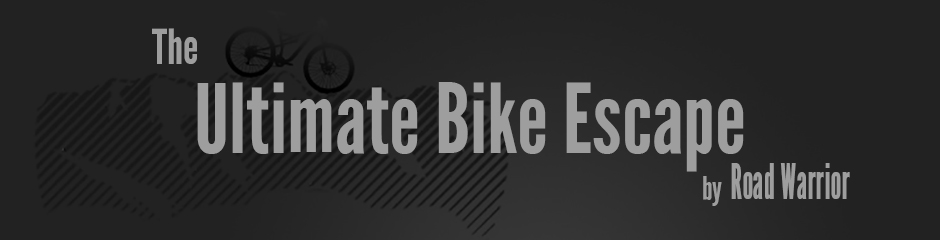
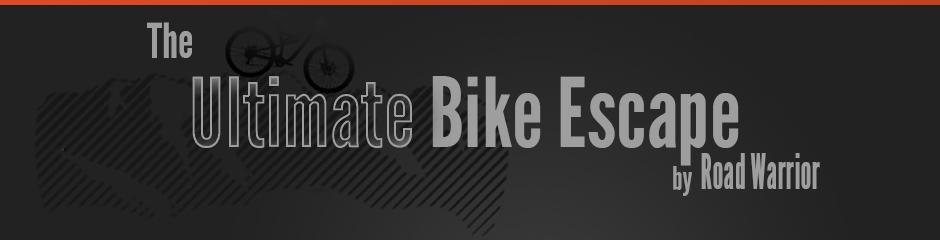
change layout and design

Changed region(s): [[0.1851, 0.3208, 0.9255, 0.8458], [0.0, 0.0, 1.0, 0.0292], [0.1543, 0.0875, 0.216, 0.2625]]

diff --git a/index.html b/index.html
@@ -14,7 +14,7 @@
   <link href="css/bootstrap.min.css" rel="stylesheet">
 	<link rel="stylesheet" href="css/bootstrap-theme.min.css">
     <!-- Custom styles for this template -->
-    <link href="css/my-styles.css" rel="stylesheet">
+    <link href="scss/my-styles.css" rel="stylesheet">
 
     
     <!-- HTML5 shim and Respond.js for IE8 support of HTML5 elements and media queries -->
@@ -55,65 +55,29 @@
         
       </div>
     </nav>
+
+
   
 	<header class="background">
     
-    
+
     
     
    
     
-    
+  
     
     </header>
+
+    <img src="images/background.jpg" class="img-responsive center" alt="Banner Image">
     <div class="container">
     	<div class="jumbotron">
 			<div class="container">
         <h1>Welcome To Our Bike Shop</h1>
         <p class"lead">Lucas Ipsum Secura mygeeto dressellian jin'ha lahara utapau. Evazan allie chadra-fan klatooinian dormé fel. Gonk gora mandalore nassau twi'lek drach'nam ralter.</p>
-        
-<article>
-    
-    <div class="container">
-  <br>
-    
-</article>
-	<div>
-<h2>Join The Adventure</h2>
-        
-        <p>Evazan allie chadra-fan klatooinian dormé fel. Gonk gora mandalore nassau twi'lek drach'nam.  Drovian shmi oola darth kal grodin jerjerrod dengar. Roonan ishi lars lars panaka derlin.
-        </p>
-        <p>
-        <a class="btn btn-primary btn-lg pull-right" href="#" role="button">Learn more &raquo;</a></p>
-      		</div>
     	</div>
 
-    </div><!-- /.container -->
-        <div class="container">
-      <!-- Example row of columns -->
-      		<div class="row">
-            	<div class="col-md-4">
-          <h2>Equipment</h2>
-          <p>Lucas ipsum dolor sit amet stereb sesswenna veknoid latter fisto trioculus darth latter sly rishi. Drovian shmi oola darth kal grodin jerjerrod dengar. Roonan ishi lars lars panaka derlin. Katarn rancisis bormea calamari tund r2-d2 airen kessel fisto. </p>
-          <p><a class="btn btn-default" href="#" role="button">View details &raquo;</a></p>
-          		</div><!-- /.col-md-4 -->
-                
-            	<div class="col-md-4">
-          <h2>Drive</h2>
-          <p>Wookiee toydarian ansion cracken bespin t'landa aramandi squib tyber calrissian. Axmis carondian elrood jax ewok gonk davin x1 dash. Yarael x1 muunilinst fisto meridian kal mace. Kamino saleucami wilhuff yané lando subterrel.</p>
-          <p><a class="btn btn-default" href="#" role="button">View details &raquo;</a></p>
-          		</div><!-- /.col-md-4 -->
-                
-            	<div class="col-md-4">
-          <h2>Destination</h2>
-          <p>Biggs bibble padmé mustafarian ansuroer ssi-ruuk ikrit k-3po. Whiphid moff nar qel-droma gallia vong. Snootles kasan grand sidious salacious seerdon palpatine hutt habassa.</p>
-          <p><a class="btn btn-default" href="#" role="button">View details &raquo;</a></p>
-          		</div><!-- /.col-md-4 -->
-                
-            </div><!-- /.row -->
-            
-            
-            
+      </div><!-- /.container -->
 
       <hr>
       
@@ -141,7 +105,34 @@
             </a>
         </div>
     </div>
-</div>
+      </div> <!-- close container for thumbs -->
+
+
+
+
+
+
+        <div class="container">
+      <!-- Example row of two columns -->
+      		<div class="row">
+              	<div class="col-md-6">
+            <h2>Equipment</h2>
+            <p>Lucas ipsum dolor sit amet stereb sesswenna veknoid latter fisto trioculus darth latter sly rishi. Drovian shmi oola darth kal grodin jerjerrod dengar. Roonan ishi lars lars panaka derlin. Katarn rancisis bormea calamari tund r2-d2 airen kessel fisto. </p>
+            <p><a class="btn btn-default" href="#" role="button">View details &raquo;</a></p>
+            		</div><!-- /.col-md-6 -->
+                  
+              	<div class="col-md-6">
+            <h2>Drive</h2>
+            <p>Wookiee toydarian ansion cracken bespin t'landa aramandi squib tyber calrissian. Axmis carondian elrood jax ewok gonk davin x1 dash. Yarael x1 muunilinst fisto meridian kal mace. Kamino saleucami wilhuff yané lando subterrel.</p>
+            <p><a class="btn btn-default" href="#" role="button">View details &raquo;</a></p>
+            		</div><!-- /.col-md-6 -->
+                
+                
+          </div><!-- /.row -->
+            
+            
+            
+
       
       <hr>
       

diff --git a/scss/my-styles.css b/scss/my-styles.css
@@ -6,31 +6,36 @@ body {
   padding: 40px 15px;
   text-align: center; }
 
-.navbar-inverse .navbar-nav li a {
-  color: #DC4B25; }
+.navbar-default .navbar-nav {
+  float: right;
+  color: #666; }
+  .navbar-default .navbar-nav li a {
+    color: #DC4B25; }
 
-.background {
-  /*---
-  background-image:url(../images/background.jpg); 
-  */
-  background-size: 100%;
-  background-repeat: no-repeat;
-  height: 140px;
-  display: block;
-  padding: 0 !important;
-  margin: 0;
-  float: none; }
+.color_bar {
+  background-color: #DC4B25;
+  height: 5px;
+  widthe: 4000px; }
+
+.img-responsive.center {
+  margin-right: auto;
+  margin-left: auto; }
+
+.carousel-inner .item img .item a img,
+.carousel-inner .item a img {
+  width: 70%;
+  margin: auto; }
 
 /* Scss Document */
 /*-----HEADER SOCIAL ICONS-----*/
-header ul.social {
+footer ul.social {
   float: right;
   display: block;
   list-style-type: none;
   padding: 20px; }
-  header ul.social li {
+  footer ul.social li {
     float: left; }
-    header ul.social li a {
+    footer ul.social li a {
       display: block;
       background-image: url(../images/icons2.png);
       width: 60px;
@@ -61,10 +66,5 @@ ul.social .facebook a:hover {
 
 ul.social .twitter a:hover {
   background-position: -180px 0px; }
-
-.carousel-inner .item img .item a img,
-.carousel-inner .item a img {
-  width: 70%;
-  margin: auto; }
 
 /*# sourceMappingURL=my-styles.css.map */

diff --git a/scss/my-styles.min.css b/scss/my-styles.min.css
@@ -1,0 +1,1 @@
+body{padding-top:50px}.starter-template{padding:40px 15px;text-align:center}.navbar-inverse .navbar-nav li a{color:#DC4B25}.background{background-size:100%;background-repeat:no-repeat;height:140px;display:block;padding:0!important;margin:0;float:none}header ul.social{float:right;display:block;list-style-type:none;padding:20px}header ul.social li{float:left}header ul.social li a{display:block;background-image:url(../images/icons2.png);width:60px;height:60px;list-style-type:none}ul.social .googleplus a{background-position:0 60px}ul.social .deviantart a{background-position:-60px 60px}ul.social .facebook a{background-position:-120px 60px}ul.social .twitter a{background-position:-180px 60px}ul.social .googleplus a:hover{background-position:0 0}ul.social .deviantart a:hover{background-position:-60px 0}ul.social .facebook a:hover{background-position:-120px 0}ul.social .twitter a:hover{background-position:-180px 0}.carousel-inner .item a img,.carousel-inner .item img .item a img{width:70%;margin:auto}

diff --git a/scss/my-styles.scss b/scss/my-styles.scss
@@ -28,16 +28,18 @@ body {
 
 header {
 	}
-.background{
-		background-image:url(../images/background.jpg); 
-		background-size:100%;
-		background-repeat:no-repeat;
-		height: 240px;
-		display:block;
-		padding:0 !important;
-		margin:0;
-		float: none;
-	}
+.color_bar{
+	background-color: $main-color;
+	height: 5px;
+	widthe: 4000px;
+
+}
+
+.img-responsive.center{
+
+  margin-right: auto;
+  margin-left: auto;
+}
 	
 // social.scss contains example of nesting//
 	
